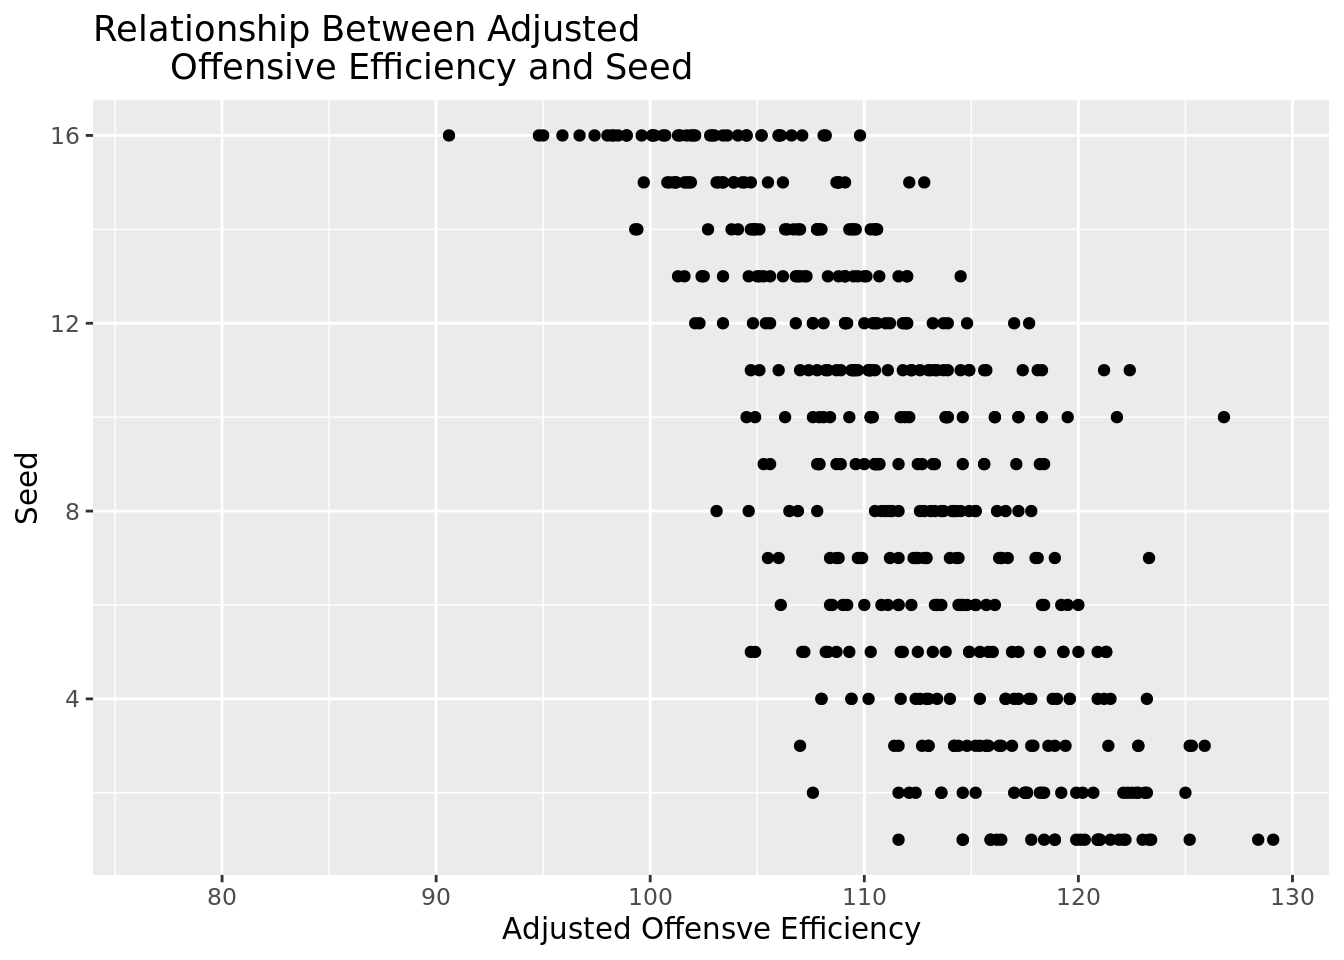
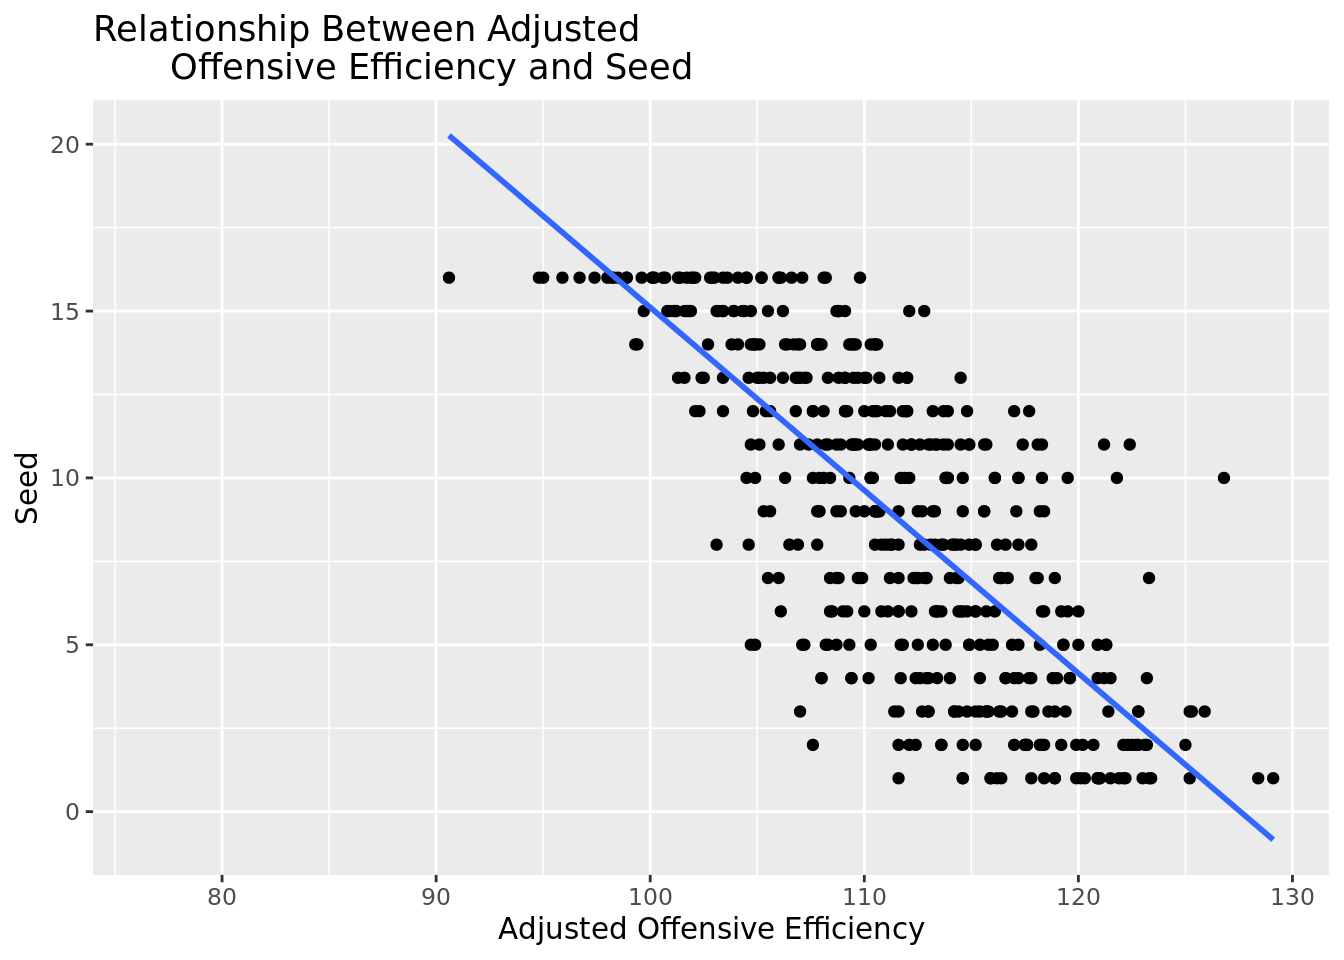
final project!

diff --git a/docs/report.html b/docs/report.html
@@ -139,12 +139,16 @@ dbl (21): G, W, ADJOE, ADJDE, BARTHAG, EFG_O, EFG_D, TOR, TORD, ORB, DRB, FT...
 </div>
 <p><strong>Dataset 2 (D1 college basketball)</strong></p>
 <p><strong>Introduction and data</strong></p>
-<p>As Duke students, it goes without saying that Duke basketball adds on to our unique college experience. Noting Duke mens basketball’s historical successes, we have grown interested in researching more about other Division 1 mens basketball programs in universities throughout the country.</p>
+<p>As Duke students, it goes without saying that Duke basketball adds on to our unique college experience. Noting Duke men’s basketball’s historical successes, we have grown interested in researching more about other Division 1 men’s basketball programs in universities throughout the country.</p>
 <p>The data that we will be utilizing is sourced from the Division I college basketball seasons from the years of 2013-2019. It was found in the open source data site, Kaggle. The data was scraped from http://barttorvik.com/trank.php#. This data was cleaned up in 2021, in which the COVID seasons were not included in the dataset.</p>
 <p>The dataset has various variables that characterize different Division I basketball teams— such as the university they represent and the conference in which they belong. Some of the observations within the dataset include the number of games played, the number of games won, power rating, as well as the stats of the team in a particular season.</p>
 <p><strong>Literature Review</strong></p>
+<p>In recent years, statistical analysis has become a critical tool for analyzing and predicting college basketball outcomes, with many researchers evaluating the relationship between offensive/defensive ratings and the performance of various basketball programs using statistical models.</p>
+<p>Studies have revealed that offensive and defensive ratings play a significant role in a team’s success in the NCAA tournament. According to an NCAA study conducted in 2018, over nine seasons, a team’s offensive rating was about 50% more critical than its defensive rating in terms of NCAA tournament success. Another study by Bleacher Report in 2013 showed that between 2003-2013, 35 out of 40 Final Four contestants were in the top 25 in defensive efficiency, while 33 out of 40 were in the top 25 in offensive efficiency, suggesting that teams with strong defensive and offensive ratings have a higher chance of reaching the Final Four in the NCAA tournament. The most comprehensive study conducted by Albert and Bennett in 2014 examined the historical performance of NCAA men’s basketball tournament teams from 1985 to 2013 using logistic regression models, concluding that defensive performance is a significant predictor of a team’s success in the overall tournament.</p>
+<p>Yet, while these studies and a number of others have centered around predicting the impact of offensive/defensive rating on overall tournament success, we found that very minimal research or statistical models exist analyzing the relationship between these ratings and SEED prior to the tournament, inspiring our research question and hypothesis.</p>
 <p><strong>Methodology</strong></p>
-<p>In this project, we decided to fit multiple models and find the best model at predicting postseason ranking based on season factors. For the purposes of the models we also decided to choose only teams that have made the tournament for our dataset, since we are looking at predictions for seed and not whether or not a team makes the tournament. These season factors include adjusted offensive efficiency (expected score given 100 possessions), adjusted defensive efficiency (expected opponent score given 100 possessions), Turn Over Percentage, Offensive Rebound Percentage, and Free Throw Rate. We decided based off of initial visualizations that the adjusted defensive and offensive efficiencies would be the best as they tended to have the strongest correlation to seed. We chose to use linear regressions because we wanted to show a predicted value based on offensive and defensive efficiencies. A hypothesis test would only be able to give us an idea if they make a difference in seeding, but not be able to predict the seed. We also will then go and use adjusted r-suqared which will tell us how well fit our models are to our data set while also accounting for predictors that may be insignificant (higher the better). We also will use an AIC value to compare models (from teh same dataset) since AIC is a good evaluation of if the model is a good fit for the data it was derived from and takes into account under and also over prediction of the model (lower value is better). It is also worth noting that seed is considered a numeric variable in the models and in the dataset.</p>
+<p>In this project, we decided to fit multiple models and find the best model at predicting postseason ranking based on season factors. For the purposes of the models we also decided to choose only teams that have made the tournament for our dataset, since we are looking at predictions for seed and not whether or not a team makes the tournament. These season factors include adjusted offensive efficiency (expected score given 100 possessions), adjusted defensive efficiency (expected opponent score given 100 possessions), Turn Over Percentage, Offensive Rebound Percentage, and Free Throw Rate. We decided based off of initial visualizations that the adjusted defensive and offensive efficiencies would be the best as they tended to have the strongest correlation to seed.</p>
+<p>We chose to use linear regressions because we wanted to show a predicted value based on offensive and defensive efficiencies. A hypothesis test would only be able to give us an idea if they make a difference in seeding, but not be able to predict the seed. We also will then go and use adjusted r-squared which will tell us how well fit our models are to our data set while also accounting for predictors that may be insignificant (higher the better). We also will use an AIC value to compare models (from teh same dataset) since AIC is a good evaluation of if the model is a good fit for the data it was derived from and takes into account under and also over prediction of the model (lower value is better). It is also worth noting that seed is considered a numeric variable in the models and in the dataset.</p>
 <p>Visualizations of Possible Predictors Not Used (removed data are the teams not in the tournament)</p>
 <div class="cell">
 <div class="cell-output cell-output-stderr">
@@ -296,7 +300,9 @@ Coefficients:
 <pre><code>[1] 2063.377</code></pre>
 </div>
 </div>
-<p>The interactive model (with both adjusted offensive and defensive efficiency) is the best model with the highest adjusted r-squared value (with the additive model just barely less accurate with a slightly lower adjusted r-squared value and a slightly higher AIC). Adjusted offensive efficiency is the third best predictor closely followed by defensive efficiency (but both are individually less correlated with their seed). This means that between offensive and defensive efficiency is slightly more important when it comes to seeding, but both combined are the most important when it comes to predicting seed. These results do match our hypothesis which again is “We predict that, in regular season, teams with higher adjusted offensive efficiency &amp; lower adjusted defensive efficiency will be predicted to have higher seeds.”</p>
+<p><strong>Discussion</strong></p>
+<p>In looking at the graphs, we can see the trend between a higher seed and the respective efficiency of offense or defense. When looking at adjusted offensive efficiency, we see as efficiency increases, seed “decreases” (approaches 1). A “lower” seed, in this case, is better. We see the opposite trend in adjusted defensive efficiency. A team seeks to have a lower adjusted defensive efficiency. In our second graph, we see that those teams with a “lower” seed have a lower adjusted defensive efficiency. This would align itself with our hypothesis. However, we want to know whether either of these predictors is better at determining seed. To do this, our models prove effective at determining this.</p>
+<p>We have three models: one with only ADJOE, one with only ADJDE, and one with an interaction between the two. The interactive model (with both adjusted offensive and defensive efficiency) is the best model with the highest adjusted r-squared value (with the additive model just barely less accurate with a slightly lower adjusted r-squared value and a slightly higher AIC). Adjusted offensive efficiency is the third best predictor closely followed by defensive efficiency (but both are individually less correlated with their seed). This means that between offensive and defensive efficiency is slightly more important when it comes to seeding, but both combined are the most important when it comes to predicting seed. These results do match our hypothesis which again is “We predict that, in regular season, teams with higher adjusted offensive efficiency &amp; lower adjusted defensive efficiency will be predicted to have higher seeds.”</p>
 
 
 
